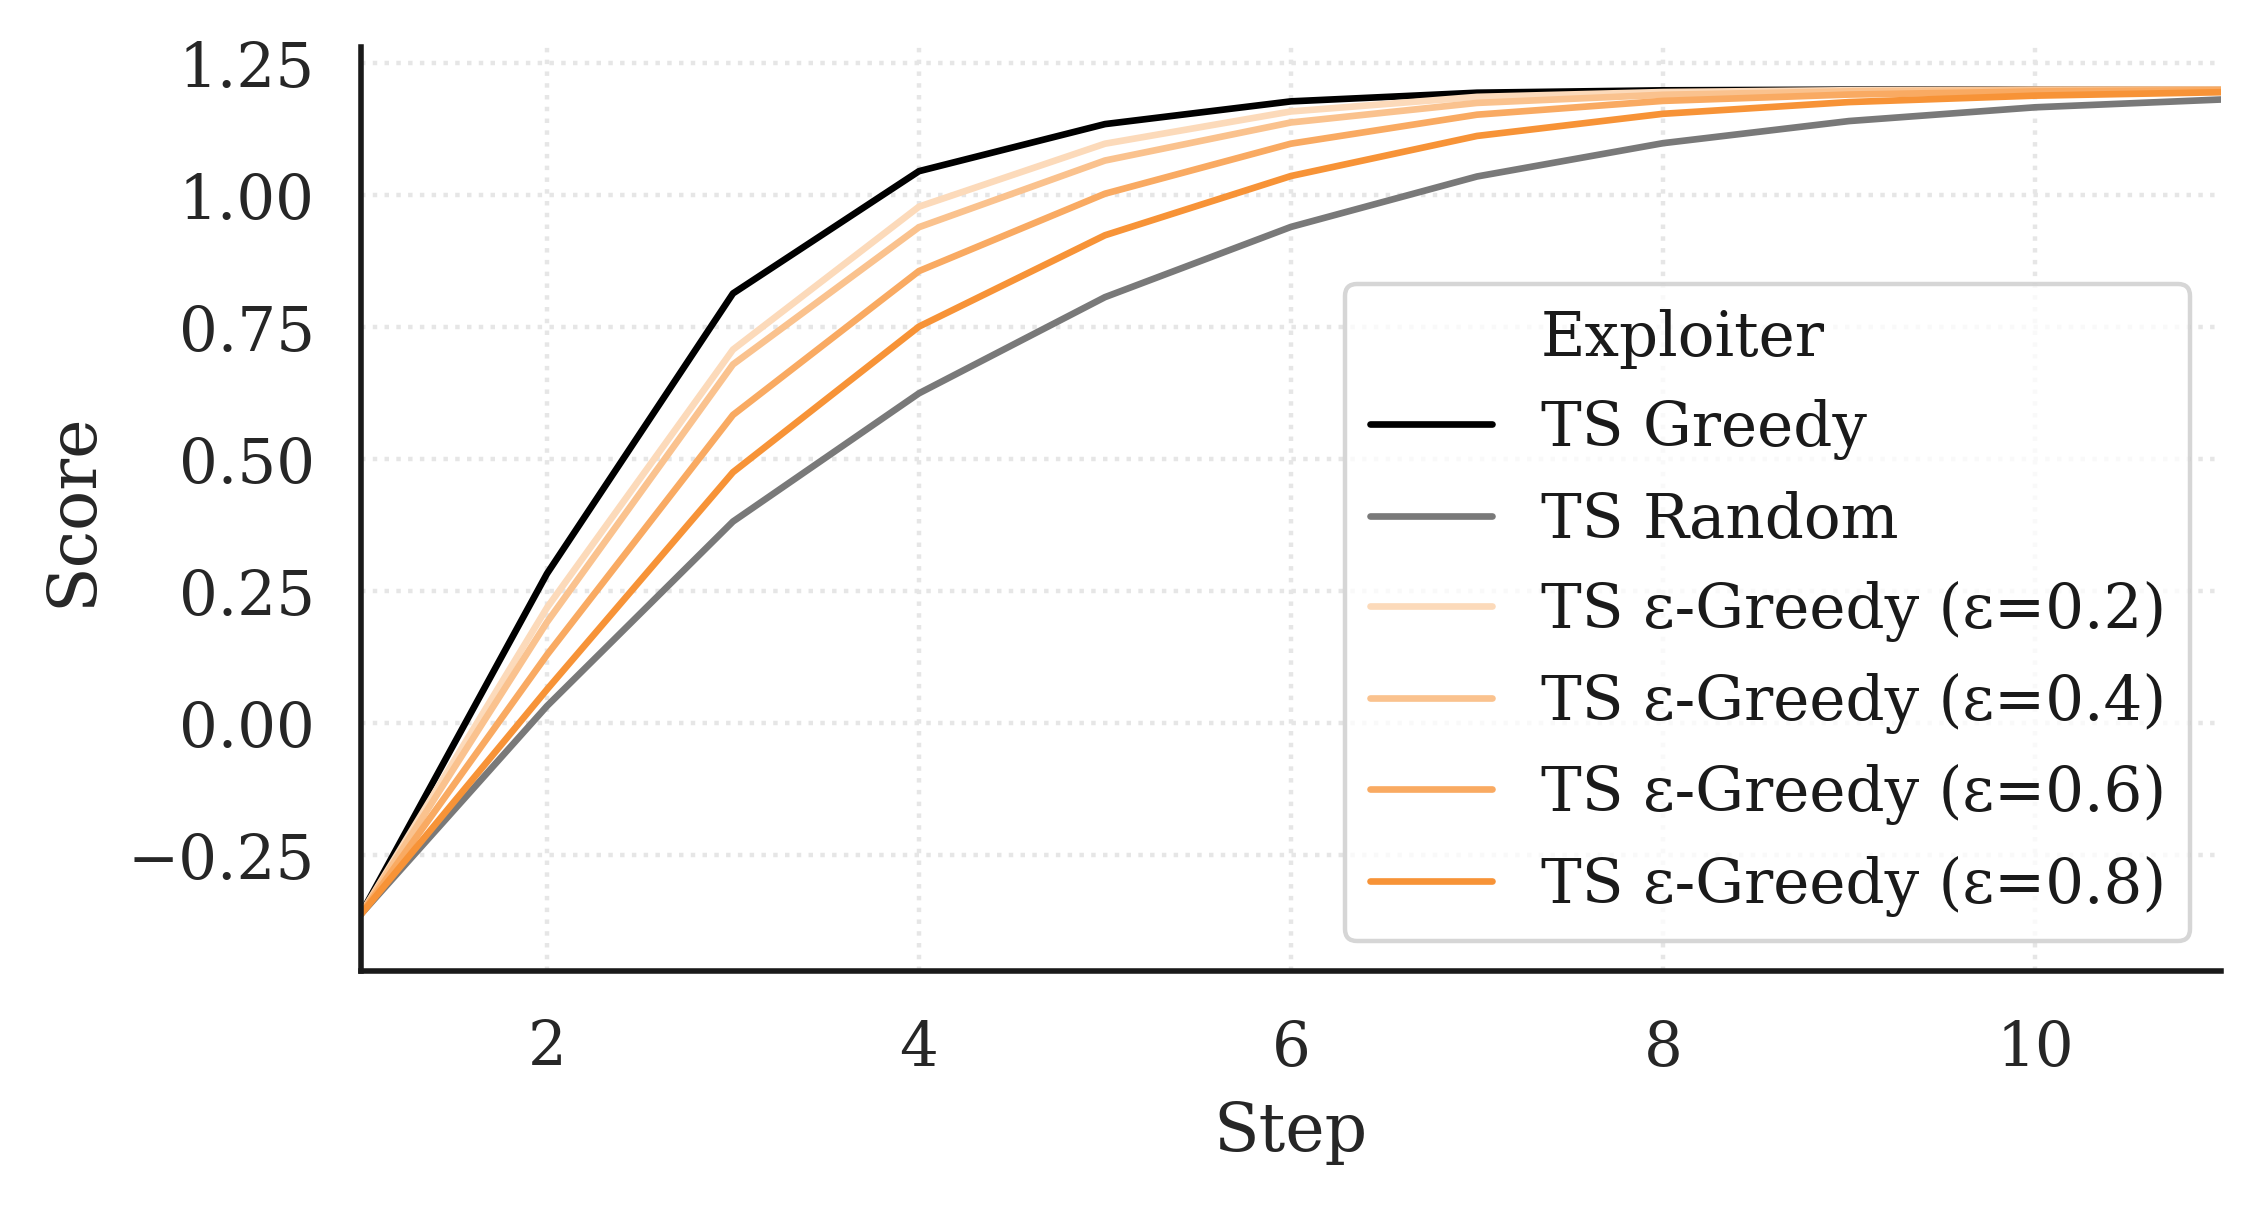
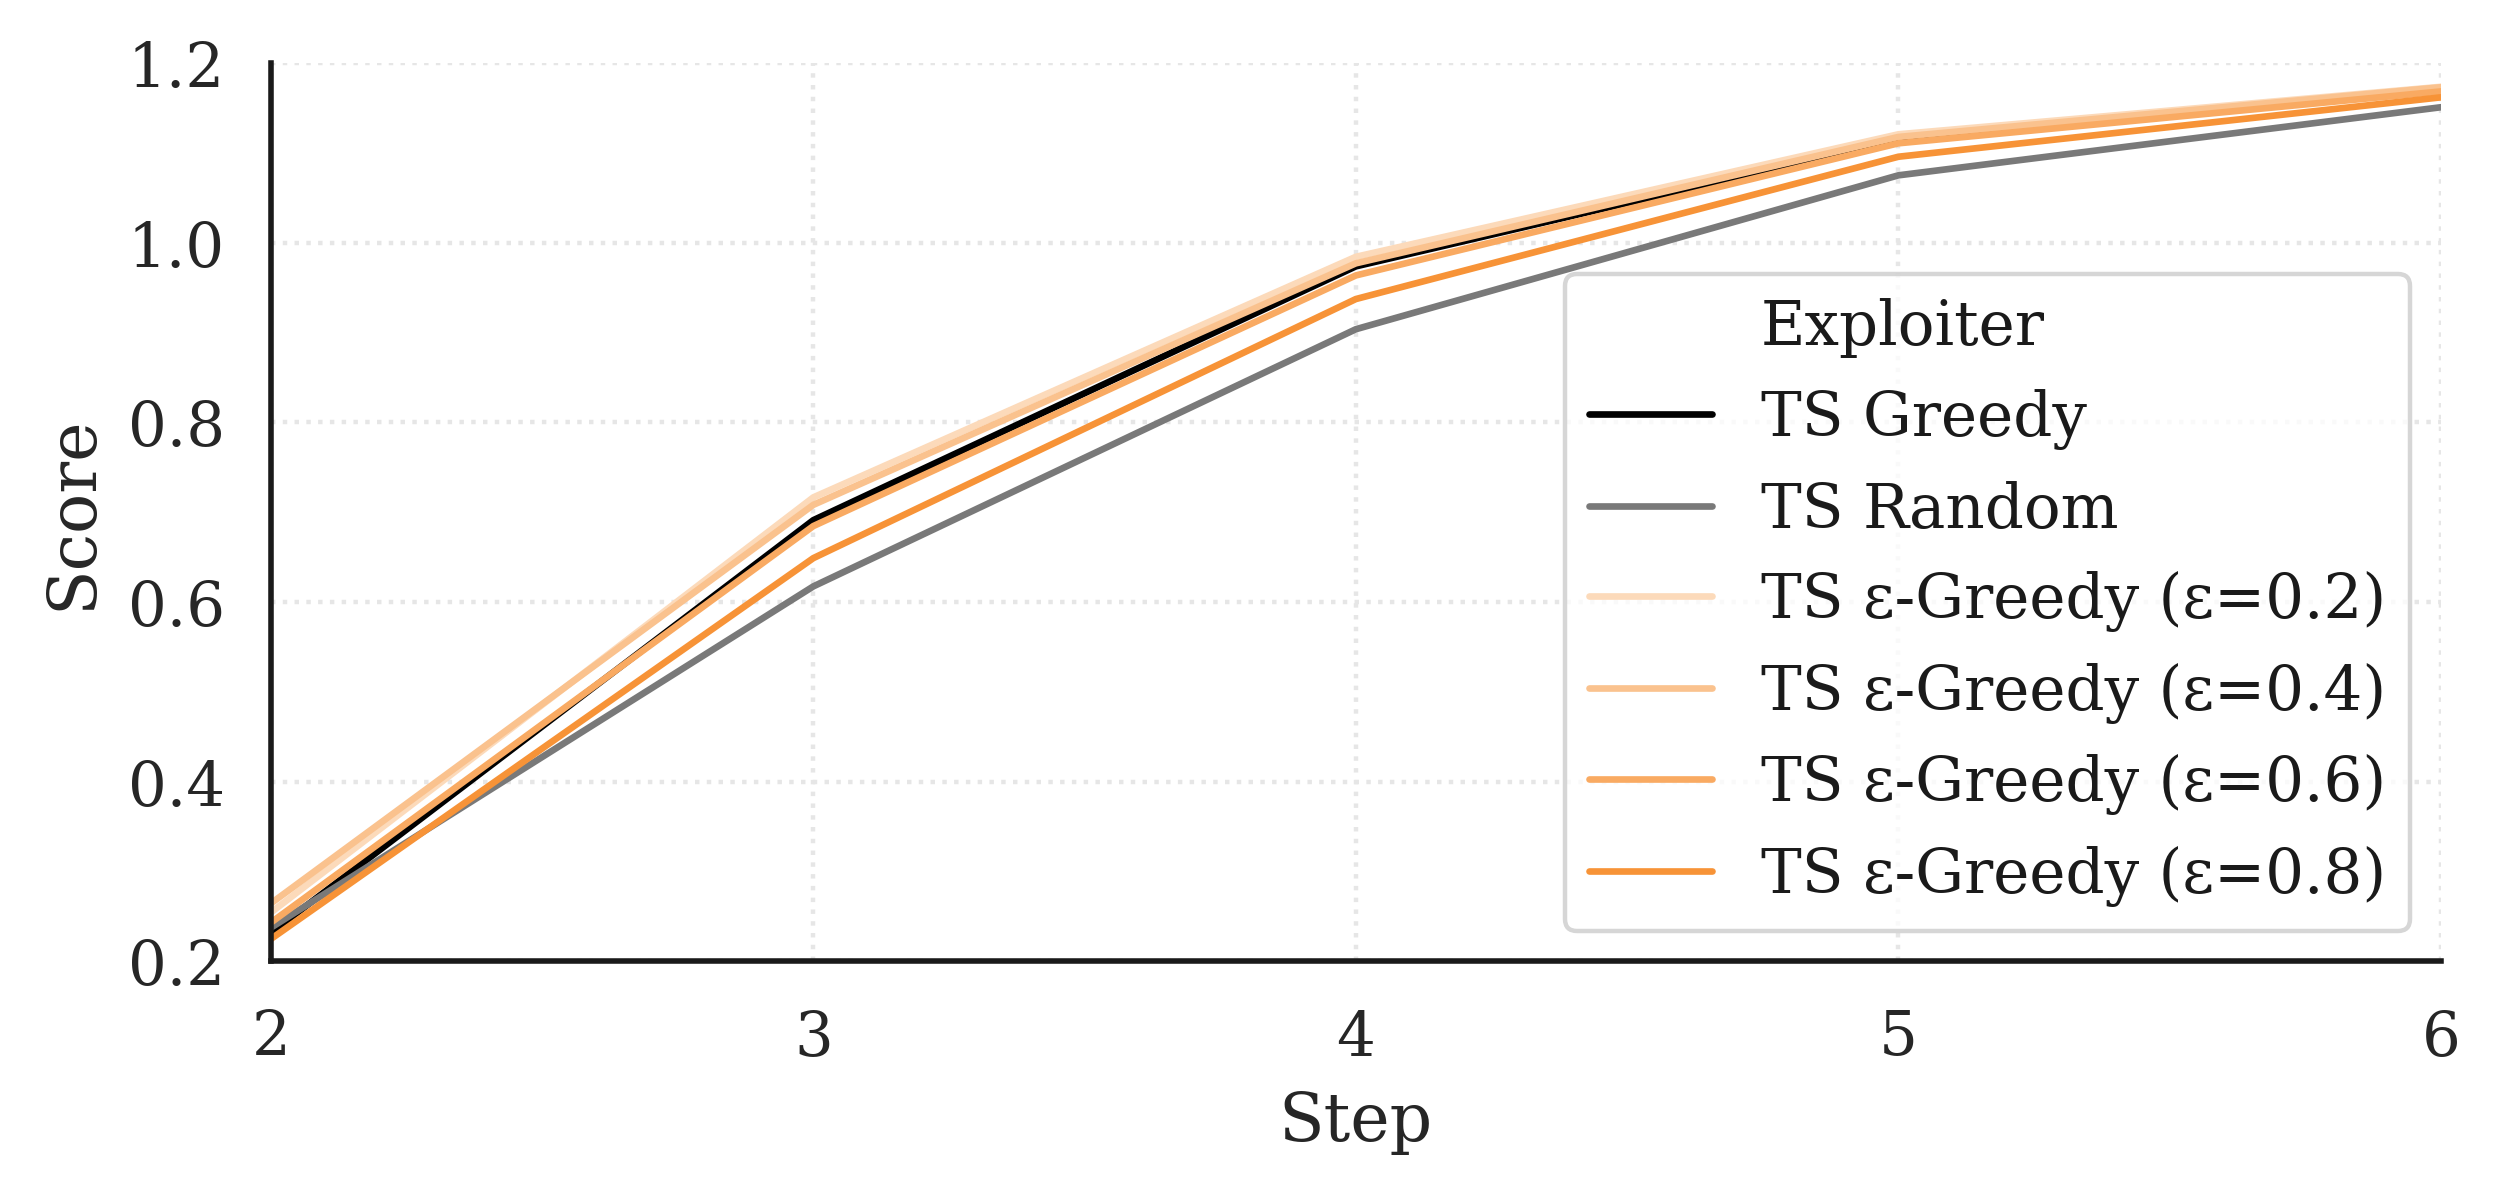
updated toy experiment without eager step

diff --git a/tsucb/pbt/examples/pbt_paper_toy_example.py b/tsucb/pbt/examples/pbt_paper_toy_example.py
@@ -3,6 +3,7 @@ import time
 from typing import NamedTuple
 import numpy as np
 import matplotlib.pyplot as plt
+import matplotlib.ticker as plticker
 import seaborn as sns
 import pandas as pd
 
@@ -114,7 +115,6 @@ def make_plot(ax_col, options, exploiter, steps=200, title=None, converge_score=
         exploit=True, explore=True,
         show_progress=False,
         randomize_order=True,
-        step_after_explore=True,
         print_scores=options['print_scores']
     )
     t1 = time.time()
@@ -151,7 +151,7 @@ def make_plot(ax_col, options, exploiter, steps=200, title=None, converge_score=
 
 def run_dual_test():
     options = {
-        "steps": 12,
+        "steps": 10,
         "steps_till_ready": 2,
 
         "debug": False,
@@ -159,8 +159,8 @@ def run_dual_test():
         "exploit_copies_h": False,  # must be False for toy example to be valid
 
         # custom
-        "repeats": 1000,
-        "exploration_scale": 0.1,
+        "repeats": 500,
+        "exploration_scale": 0.25,
         "population_size": 50,
         "print_scores": False,
 
@@ -252,8 +252,10 @@ def run_dual_test():
         keys = {e[0]['Exploiter'] for e in xpltrs}
         data = aggregated.loc[aggregated['Exploiter'].isin(keys)]
         # PLOT
-        plt.figure(figsize=(6, 3))
-        plt.xlim((1, 11))
+        fig, ax = plt.subplots(figsize=(6*7/6, 2.5*7/6))
+        ax.xaxis.set_major_locator(plticker.MultipleLocator(base=1.0))
+        plt.xlim((2, 6))
+        plt.ylim((0.2, 1.2))
         sns.lineplot(x="Step", y="Score", data=data, hue="Exploiter", palette=palette)
         if options['SAVE_GRAPHS']:
             plt.savefig(f'toy_results_{name}.png', dpi=400, bbox_inches="tight")
@@ -265,8 +267,10 @@ def run_dual_test():
         keys = {e[0]['Exploiter'] for e in xpltrs}
         data = aggregated.loc[aggregated['Exploiter'].isin(keys)]
         # PLOT
-        plt.figure(figsize=(6*7/6, 4*7/6))
-        plt.xlim((1, 11))
+        fig, ax = plt.subplots(figsize=(6*7/6, 4*7/6))
+        ax.xaxis.set_major_locator(plticker.MultipleLocator(base=1.0))
+        plt.xlim((2, 6))
+        plt.ylim((0.2, 1.2))
         sns.lineplot(x="Step", y="Score", data=data, hue="Exploiter", palette=palette)
         if options['SAVE_GRAPHS']:
             plt.savefig(f'toy_results_{name}.png', dpi=400, bbox_inches="tight")
